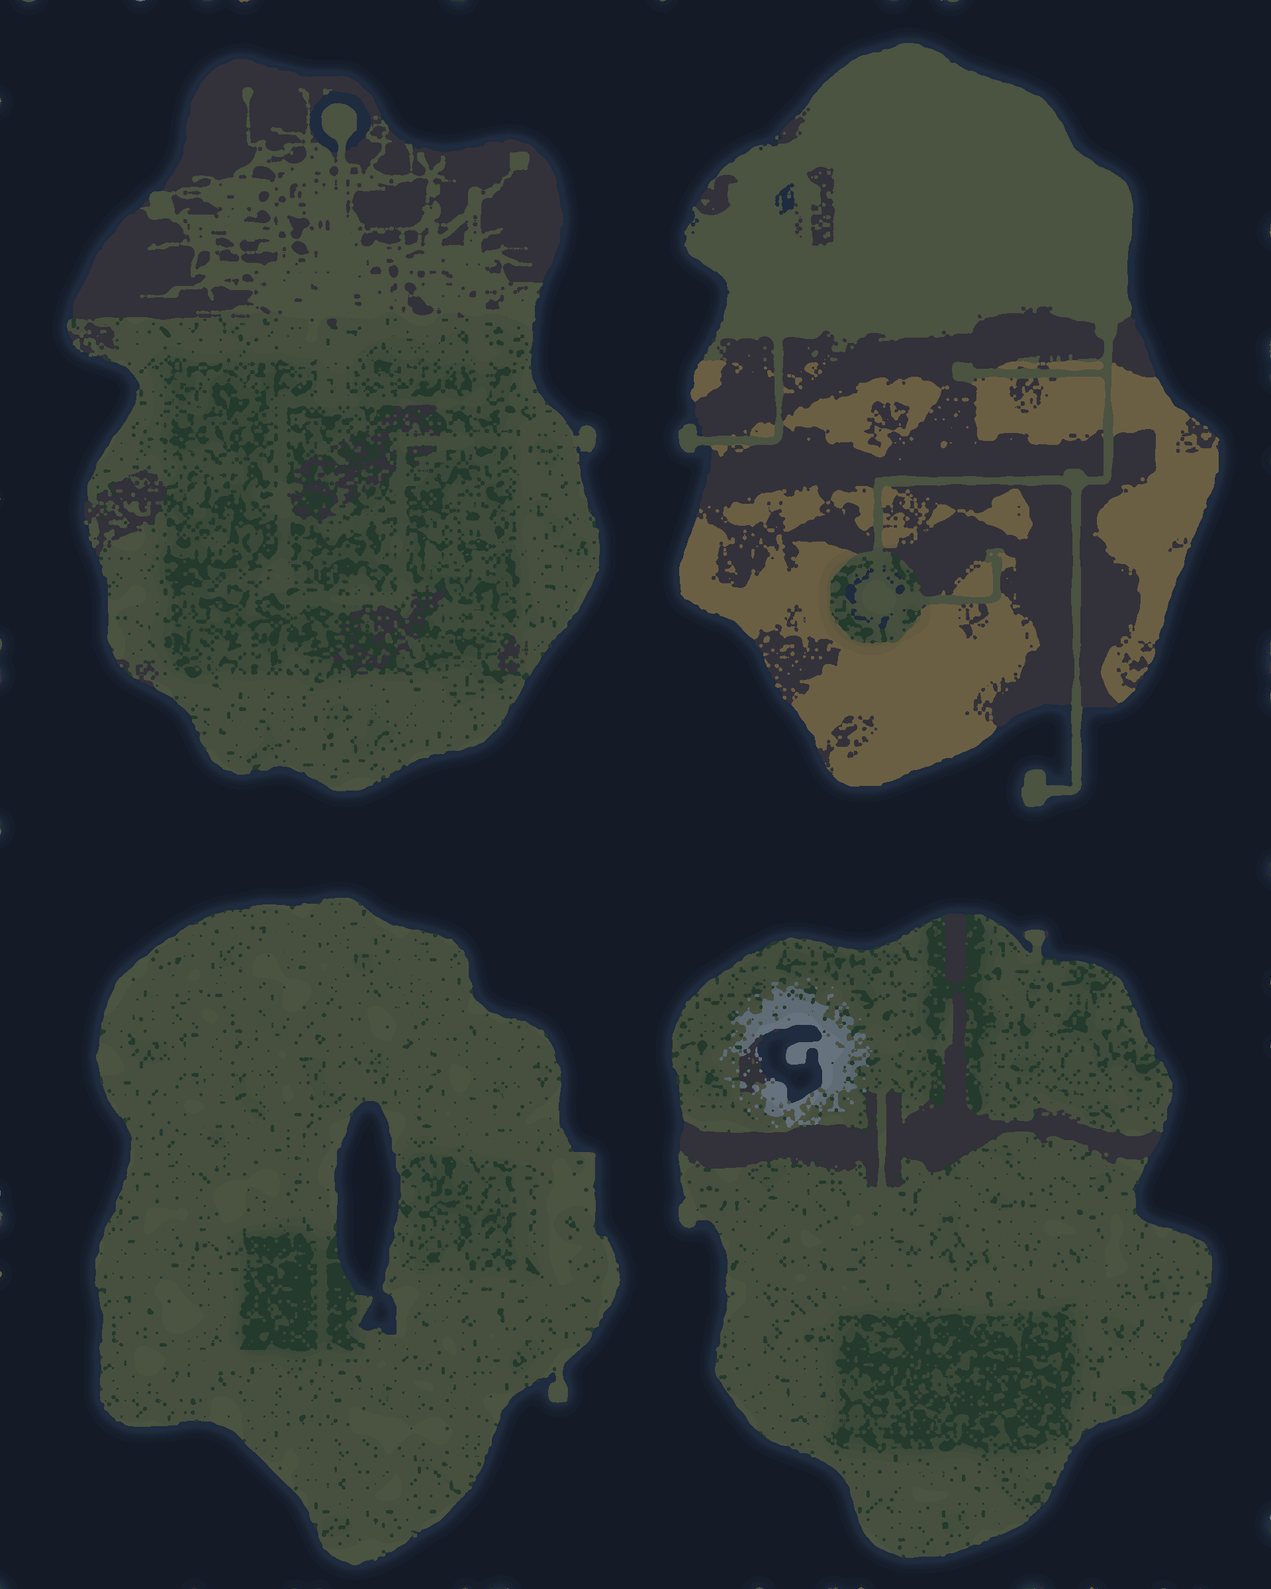
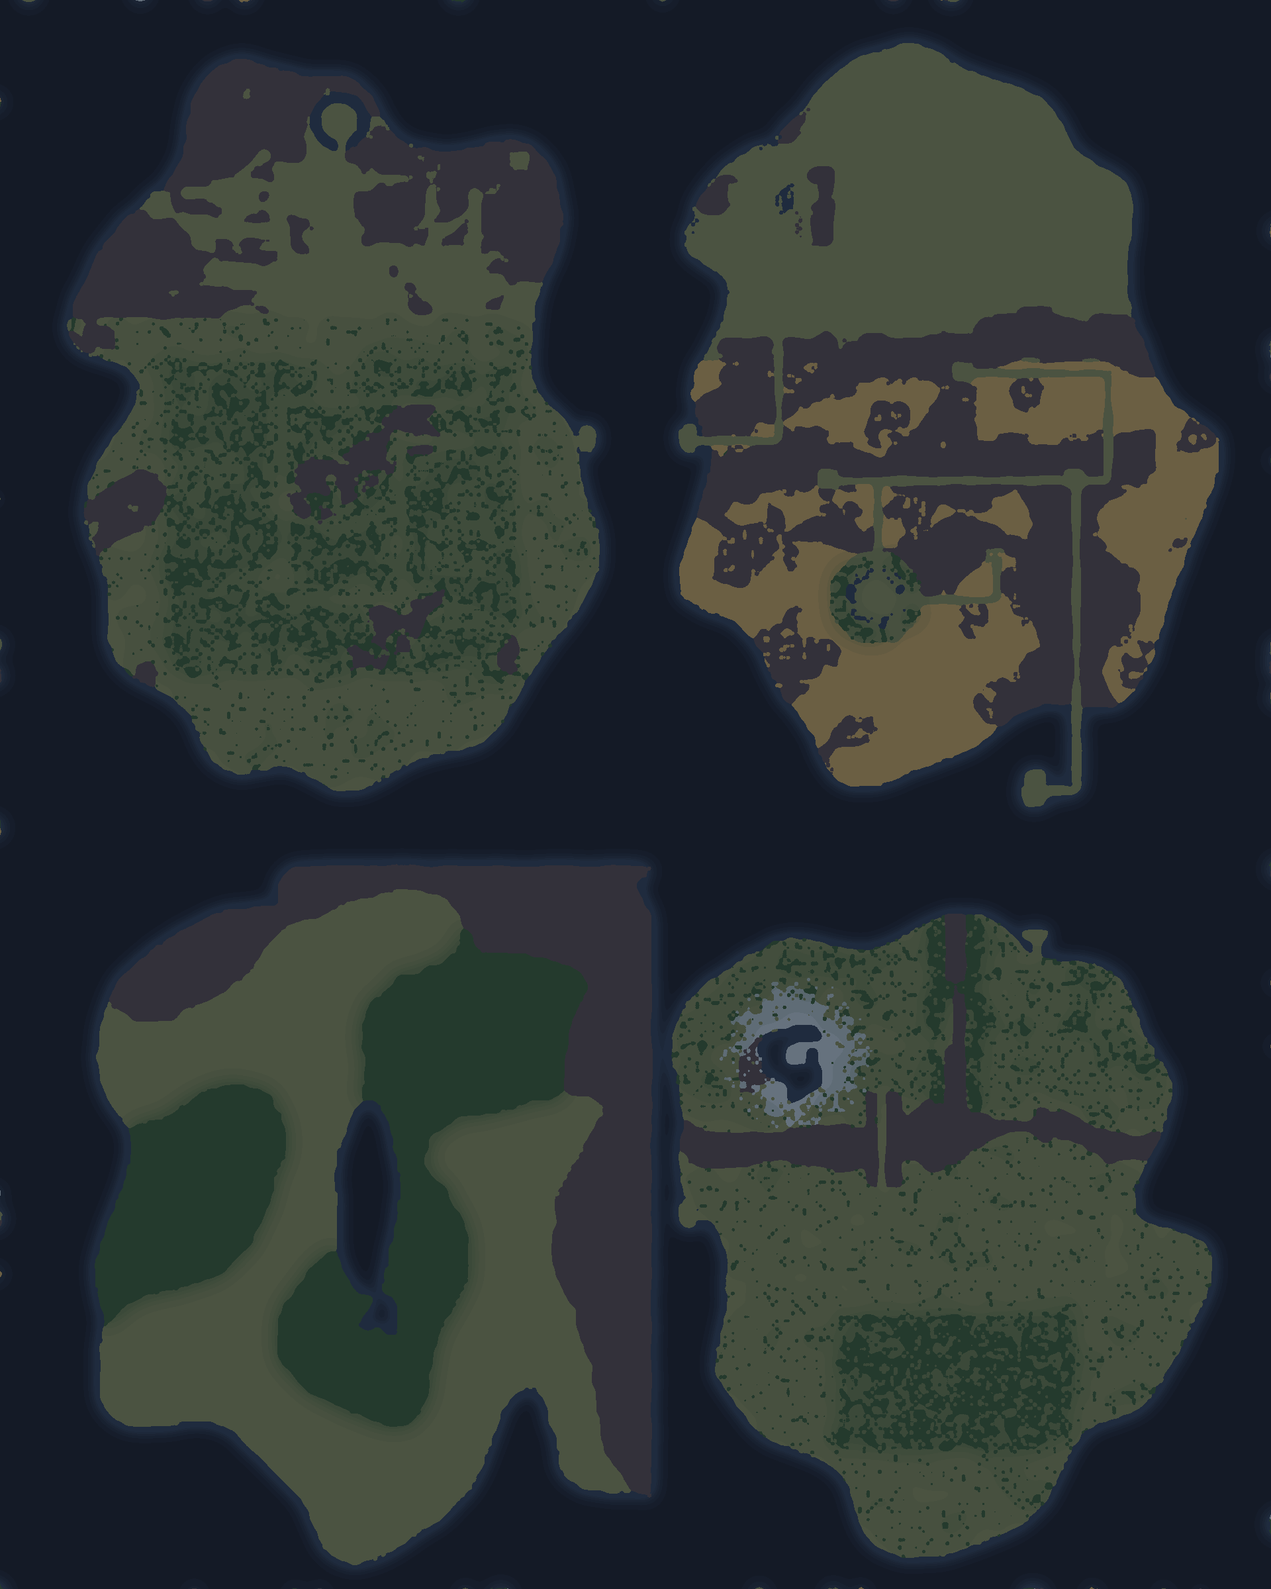
fix: the minimap draws the world the owner painted, and forests stop the hero
Two owner-reported defects, one shared cause: something in the pipeline was
reading a map the game does not play on.

THE MINIMAP. bake_overworld_minimap.py assembled its own grid from a cached
runtime grid plus the Act 1 runtime SNAPSHOT, and neither is the shipped map.
The snapshot is extracted after consolidateMapData and BEFORE act1-world-map.js
writes the owner's painted plate over the Act 1 rect -- the constant is even
named FINAL_MAP_SHA256, which is what makes it so easy to miss; it is final only
up to the plate. That is 11,578 cells inside the rect. The cache adds a further
1,626 outside it, having predated the current consolidator constants. 13,204 of
128,000 cells, and the pins were worse than the terrain: Greenhollow was drawn
at the generator's (60,340) while the game puts it at the owner's (69,255).

So the grid is no longer assembled there. bake_act1_overworld_walk.mjs -- the
collision bake, which hit this exact trap first and whose header says so -- now
answers --emit-map, and its buildFinalMap() is the one definition of the shipped
map in this repo. It asserts the bundle, the consolidated map and the plated map
against pinned hashes before handing any of it over, and the plate SOURCE hash
rides along and is checked, so a repainted plate cannot be quietly drawn. The
minimap and the collider can no longer disagree about which world is real.
--check now compares the bytes on disk rather than re-proving invariants a stale
[…]

diff --git a/public/dq-tiles.js b/public/dq-tiles.js
@@ -303,8 +303,30 @@
   //       reverts all surviving fills; a gained landmark reverts all prunes; re-validated after revert.
   //   Measured results are NOT hardcoded here (they go stale the moment constants tune) — see the change log.
   var MIN_KEEP=6, FILL_MIN=4, DENS_MAX=12, DENS_MAX_GRASS=25, STUCK_TREE_MTN=5; // OPTION 1 biome-aware fill cap (2026-07-08): DENS_MAX=12 = SAND cap (desert stays open); DENS_MAX_GRASS=25 = full 5x5 window => grass effectively UNCAPPED so grassland solidifies. STUCK_TREE_MTN=5 (owner 2026-07-09): a tree(3) with >= 5 of its 8 neighbours = mountain is "stuck" INSIDE a mountain cluster -> becomes mountain (blends into the massif); the tree de-scatter idea was reverted — this is the real fix
-  // walkability (mirrors bundle canMove overworld branch) — for the reachability safety gate ONLY (never mutates)
-  var OW_BLOCK={2:1,4:1,6:1,7:1,8:1,9:1,10:1,11:1,12:1,13:1,14:1,15:1,16:1,19:1,20:1,21:1};
+  // Overworld walkability. TWO consumers, and the second one is easy to miss: the reachability
+  // safety gate below (owReach, which never mutates), AND owmTileBlock() ~line 2350, which copies
+  // this table minus water and mountain to build the PIXEL collider's discrete blocker set. So
+  // this is not a bookkeeping list -- it is what the hero actually walks into.
+  //
+  // TILE 3 (tree) BLOCKS, owner decision 2026-08-07: "the hero also walks straight into forrests,
+  // so something is fundamentally wrong." It was absent here and had been since the file was
+  // written, so forest was walkable at runtime while THREE other authorities said it blocks:
+  // SHIPPED-BLOCKING-RULES.md ("tile 3 is tree, which also blocks"), semanticMap.ts's
+  // BLOCKED_TERRAIN, and act1-world-map.js's own blocked()/wrapCanMove.
+  //
+  // WHY THE PLATE'S OWN FOREST BLOCK NEVER FIRED, which is the actual root cause. act1-world-map.js
+  // wraps scene.canMove and returns false on tile 3 inside the Act 1 rect -- correct, and dead.
+  // a1mInstall forces the engine's update through with isMoving=true and drives the hero from
+  // a1mStep instead, which collides through a1mFree alone and never consults canMove. The wrapper
+  // still matters for relocateIfNeeded and the map-edge fallback; it just never governed a step.
+  // Adding 3 here is what reaches a1mFree, via owmTileBlock -> m.prop.
+  //
+  // Verified before landing: the consolidated and plated maps are byte-identical with and without
+  // this entry (the orphan/landmark gates revert nothing new), so no pinned map hash moves. Act 1
+  // stays ONE walkable region of 9,376 cells with all 8 owner doors reachable -- which is exactly
+  // what test_act1_runtime_override.mjs already asserted, because the plate's blocked() has always
+  // counted tile 3. The runtime was the only component that disagreed.
+  var OW_BLOCK={2:1,3:1,4:1,6:1,7:1,8:1,9:1,10:1,11:1,12:1,13:1,14:1,15:1,16:1,19:1,20:1,21:1};
   var OW_LANDMARKS=[6,7,8,9,10,11,12,15,16,19,20];
   function owWalkable(v){ return !OW_BLOCK[v]; }
   // BFS reachable-walkable set from (sx,sy); returns { seen:Uint8Array, lm:Set of "<val>@x,y" reachable landmarks }
@@ -2328,6 +2350,14 @@
      is, and bumping one is how the engine interacts with it. Those keep the tile test, exactly as
      the dungeon keeps A1M_PROP beside its mask. Removing 2 and 4 from that table is the whole
      point: the field owns them now, at the painted edge instead of the lattice edge.
+
+     TILE 3 (tree) JOINS THAT SET rather than getting a third continuous field. It is the one
+     member that is scenery instead of a landmark, so it is worth saying why a cell blocker is
+     still the honest shape for it: the game's woods are SCATTERED SINGLE TREES at roughly half
+     density, one trunk per cell drawn as a prop on that cell -- not a continuous canopy mass with
+     an iso-line to trace. A per-cell blocker is what that picture is. Inventing a forestField
+     would be a third sampler with no painted edge to agree with, which is the drift this whole
+     section exists to remove.
 
      BRIDGES ARE CARVED BACK OUT, OR THE MAP DISCONNECTS. waterField's membership counts tile 5 as
      water on purpose, so the deck is painted over real water instead of a hole (see its comment).

diff --git a/public/ui-overhaul.js b/public/ui-overhaul.js
@@ -1346,7 +1346,7 @@
   // the same grid it bakes, so the pins cannot drift away from the terrain under them.
   var MM_KINDS = ['town', 'castle', 'dungeon', 'portal', 'hauntedPortal', 'signpost', 'stormNest', 'gateCave', 'specialCave'];
   /* BEGIN GENERATED overworld-minimap-marks */
-  var MM_MARKS = [[1,85,30], [3,130,40], [2,185,48], [2,202,48], [3,40,50], [2,80,60], [2,120,70], [0,195,80], [2,242,81], [5,194,82], [2,278,82], [2,242,93], [5,277,95], [0,70,100], [5,81,102], [5,101,102], [2,148,110], [2,172,110], [0,270,120], [3,50,130], [3,120,140], [8,250,140], [0,100,150], [0,220,150], [2,225,160], [2,260,198], [2,260,234], [0,252,242], [4,238,248], [4,242,248], [2,120,260], [0,222,262], [0,130,290], [5,129,292], [5,139,292], [7,148,295], [6,280,295], [7,172,305], [2,80,310], [0,100,320], [0,200,320], [5,99,322], [5,201,322], [5,223,322], [2,185,335], [0,60,340], [5,61,342], [5,81,342], [2,45,350], [2,140,350]];
+  var MM_MARKS = [[1,85,30], [3,130,40], [2,185,48], [2,202,48], [3,40,50], [2,80,60], [2,120,70], [0,195,80], [2,242,81], [5,194,82], [2,242,93], [0,70,100], [5,81,102], [5,101,102], [2,148,110], [2,172,110], [5,272,118], [2,208,120], [0,270,120], [5,219,122], [3,50,130], [2,298,130], [3,120,140], [8,250,140], [0,100,150], [0,220,150], [2,225,160], [2,260,198], [2,101,231], [2,260,234], [0,252,242], [4,238,248], [4,242,248], [0,69,255], [0,222,262], [2,30,274], [7,149,278], [6,280,295], [7,172,305], [0,200,320], [5,201,322], [5,223,322], [2,185,335], [0,39,344], [0,133,349], [2,96,359], [2,144,372]];
   /* END GENERATED overworld-minimap-marks */
   // Every landmark is a FIXED-SIZE pin on its own dark seat, never a terrain colour. Fixed size
   // is what stops the signpost, special-cave and desert-signpost tiles from being two-pixel

diff --git a/scripts/bake_overworld_minimap.py b/scripts/bake_overworld_minimap.py
@@ -21,6 +21,38 @@ ONE IMAGE FOR THE WHOLE WORLD
     window is then uniform everywhere and `drawFieldMap`'s existing sx/sy clamp already
     guarantees it never leaves the image.
 
+THE MAP THIS BAKES, AND THE STEP THAT WAS MISSED
+    Owner, 2026-08-07: "there is definitely a problem with the minimap. it does not match what
+    i see on the actual overworld."
+
+    It did not, and for TWO independent reasons. This script used to assemble its own grid from
+    `semantic-maps/runtime-overworld-grid.json` plus the Act 1 runtime SNAPSHOT. Both are wrong
+    for this purpose:
+
+      1. The snapshot is extracted by scripts/extract_act1_runtime_snapshot.mjs from the map
+         AFTER consolidateMapData and BEFORE act1-world-map.js writes the OWNER'S PAINTED PLATE
+         over the Act 1 rect (dq-tiles.js ~line 3316). That plate moves 11,578 cells inside the
+         rect -- it is where the owner's coastline, his woods and his eight doors actually are.
+         (The snapshot's constant is even NAMED `FINAL_MAP_SHA256`, which is what makes this so
+         easy to miss: it is final only up to the plate.)
+      2. The cached grid predates the current consolidator constants and disagrees with it by a
+         further 1,626 cells OUTSIDE the rect.
+
+    Total: 13,204 of 128,000 cells drawn from a map the game does not use. Coastlines are the
+    tell, and the pins were worse than the terrain -- Greenhollow was drawn at the generator's
+    (60,340) while the game puts it at the owner's (69,255).
+
+    So the grid is no longer assembled here at all. It is REQUESTED from
+    scripts/bake_act1_overworld_walk.mjs --emit-map, which is the collision bake -- the one that
+    already hit this exact trap and whose header says so outright ("THE PLATE IS THE STEP THAT
+    WAS MISSED FIRST TIME"). That script's buildFinalMap() is now the single definition of the
+    shipped map, and it asserts the bundle, the consolidated map and the plated map against
+    pinned hashes before handing any of it over. The minimap and the collider therefore cannot
+    disagree about which world is real, which is the whole point.
+
+    The plate SOURCE hash rides along in the emitted record and is asserted here, so a plate
+    that moves without a re-bake is caught rather than quietly drawn.
+
 THE INVARIANT, inherited from scripts/smooth_owner_semantic.py
     "The class at every cell CENTRE is preserved exactly. Collision is unchanged. Only the
     appearance of the boundary between cell centres moves."
@@ -53,7 +85,7 @@ DETERMINISM
 
 Usage:
     scripts/bake_overworld_minimap.py             # bake + assert + write
-    scripts/bake_overworld_minimap.py --check     # assert only, write nothing
+    scripts/bake_overworld_minimap.py --check     # assert, and refuse a stale PNG on disk
 """
 from __future__ import annotations
 
@@ -61,8 +93,9 @@ import argparse
 import hashlib
 import json
 import os
-import re
+import subprocess
 import sys
+import tempfile
 
 import numpy as np
 from PIL import Image
@@ -71,9 +104,8 @@ sys.path.insert(0, os.path.dirname(os.path.abspath(__file__)))
 import smooth_owner_semantic as SM  # noqa: E402  -- the blur, the constants and the method
 
 ROOT = os.path.dirname(os.path.dirname(os.path.abspath(__file__)))
-GRID_CACHE = os.path.join(
-    ROOT, "design/continent-terrain-class-method/semantic-maps/runtime-overworld-grid.json")
-SNAPSHOT = os.path.join(ROOT, "src/map-engine/generated/act1RuntimeSnapshot.ts")
+SHIPPED_MAP_BAKE = os.path.join(ROOT, "scripts/bake_act1_overworld_walk.mjs")
+PLATE_SOURCE = os.path.join(ROOT, "public/act1-world-map.js")
 OUT_PNG = os.path.join(ROOT, "public/ui-map/overworld-relief.png")
 OUT_MARKS = os.path.join(ROOT, "design/ui-overhaul/overworld-minimap-marks.json")
 RENDERER = os.path.join(ROOT, "public/ui-overhaul.js")
@@ -115,6 +147,14 @@ CLASS_OF_TILE = {
     6: "ground", 7: "ground", 8: "ground", 9: "ground", 10: "ground", 11: "ground",
     12: "ground", 13: "ground", 14: "rock", 15: "ground", 16: "ice", 17: "ice",
     18: "desert", 19: "ground", 20: "desert",
+    # 21 is undocumented in MapGenerator.ts's header and appears nowhere in the TS source -- it
+    # comes out of the frozen bundle's generator as a 3x2 structure at (245-247, 93-94), a gate
+    # straddling the road through a mountain pass, with a cave mouth beside it. The old cached
+    # grid predated it entirely and carried plain road there, which is why this table never had
+    # to name it before. It BLOCKS in OW_BLOCK and in the bundle's own canMove -- exactly as
+    # town, castle and cave mouth do -- so it takes the same treatment they do: drawn as the
+    # ground it is approached from, per the convention stated above. Six cells, outside Act 1.
+    21: "ground",
 }
 BLOCKS = {"water", "forest", "rock"}          # walkable: ground, desert, ice
 BLOCKING_TILES = {2, 3, 4, 14}                # the authority, SHIPPED-BLOCKING-RULES.md
@@ -166,34 +206,46 @@ def luma(rgb) -> float:
 # ---------------------------------------------------------------------------------------------
 # 1. The grid the game actually collides with
 # ---------------------------------------------------------------------------------------------
-def load_grid() -> np.ndarray:
-    """generateOverworldMap(320,400), then the Act 1 runtime overrides on top.
+def load_grid() -> tuple[np.ndarray, dict]:
+    """THE map the runtime holds: generator -> consolidateMapData -> the owner's painted plate.
 
-    The cache is the same one build_semantic_map_from_runtime.py writes, and it predates the
-    Act 1 blocker overrides -- so the snapshot is applied over it and the bake is the FINAL
-    shipped map, not the pre-override one.
+    Not assembled here. Requested from the collision bake, which owns that three-step chain and
+    asserts every step against a pinned hash (see the header). Re-deriving it in this file would
+    be a second authority that can drift from the collider, which is the bug this fixes.
     """
-    grid = np.asarray(json.load(open(GRID_CACHE)), dtype=np.int16)
+    with tempfile.TemporaryDirectory() as tmp:
+        out = os.path.join(tmp, "shipped-map.json")
+        proc = subprocess.run(["node", SHIPPED_MAP_BAKE, "--emit-map", out],
+                              capture_output=True, text=True)
+        if proc.returncode != 0:
+            raise SystemExit("the collision bake refused to emit the shipped map -- the world "
+                             f"this minimap would draw is unverified:\n{proc.stderr.strip()}")
+        record = json.load(open(out))
+
+    if record.get("schema") != 1:
+        raise SystemExit(f"shipped-map record schema {record.get('schema')}, expected 1")
+    grid = np.asarray(record["rows"], dtype=np.int16)
     if grid.shape != (WORLD_H, WORLD_W):
-        raise SystemExit(f"runtime grid is {grid.shape}, expected {(WORLD_H, WORLD_W)}")
+        raise SystemExit(f"shipped map is {grid.shape}, expected {(WORLD_H, WORLD_W)}")
 
-    source = open(SNAPSHOT, encoding="utf-8").read()
-    bounds = [int(v) for v in re.search(
-        r"ACT1_RUNTIME_SNAPSHOT_BOUNDS = \[([0-9, ]+)\]", source).group(1).split(",")]
-    x0, y0, x1, y1 = bounds
-    rows = re.findall(r"'([0-9a-z]+)',?\n", source[source.index("ACT1_RUNTIME_SNAPSHOT_ROWS"):])
-    if len(rows) != y1 - y0 + 1 or len(rows[0]) != x1 - x0 + 1:
-        raise SystemExit(f"snapshot is {len(rows)}x{len(rows[0])}, bounds want "
-                         f"{y1 - y0 + 1}x{x1 - x0 + 1}")
+    # The emitter hashes the map it hands over; re-hash it here rather than trusting the label,
+    # so a truncated or edited record cannot pass as the shipped world.
+    got = hashlib.sha256(grid.astype(np.uint8).tobytes()).hexdigest()
+    if got != record["platedSha256"]:
+        raise SystemExit(f"emitted map hashes {got}, record claims {record['platedSha256']}")
 
-    # The bridge is a pure translation, act1cell = (worldX - 16, worldY - 218): no scale, no flip.
-    snap = np.array([[int(ch, 36) for ch in row] for row in rows], dtype=np.int16)
-    before = grid[y0:y1 + 1, x0:x1 + 1].copy()
-    grid[y0:y1 + 1, x0:x1 + 1] = snap
-    changed = int((before != snap).sum())
-    print(f"grid: {WORLD_W}x{WORLD_H}; Act 1 snapshot applied over "
-          f"[{x0},{y0}]-[{x1},{y1}], {changed} cell(s) differed from the cache")
-    return grid
+    # THE PLATE IS THE STEP THAT WAS MISSED FIRST TIME. Pin its source here too, so a plate that
+    # is repainted without re-running this bake is caught instead of quietly drawn.
+    plate_sha = hashlib.sha256(open(PLATE_SOURCE, "rb").read()).hexdigest()
+    if plate_sha != record["plateSourceSha256"]:
+        raise SystemExit(f"{os.path.relpath(PLATE_SOURCE, ROOT)} hashes {plate_sha[:16]} but the "
+                         f"emitted map was built from {record['plateSourceSha256'][:16]}")
+
+    print(f"grid: {WORLD_W}x{WORLD_H}, THE SHIPPED MAP")
+    print(f"  consolidated {record['consolidatedSha256'][:16]} -> plated {record['platedSha256'][:16]}")
+    print(f"  owner plate source {plate_sha[:16]}, plate rect {record['plateRectSha256'][:16]}")
+    return grid, {"plated": record["platedSha256"], "plateSource": plate_sha,
+                  "consolidated": record["consolidatedSha256"], "bundle": record["bundleSha256"]}
 
 
 # ---------------------------------------------------------------------------------------------
@@ -395,7 +447,19 @@ def main() -> None:
     args = ap.parse_args()
 
     S = BAKE_PX
-    grid = load_grid()
+    grid, prov = load_grid()
+
+    # Name every tile the shipped map actually contains, or refuse. The generator emitted a tile
+    # this table had never seen (21) and the bake died on a bare KeyError three steps later; an
+    # unnamed tile is a terrain class nobody chose, and guessing one is how a minimap starts
+    # lying. Fail here, with the census, so the decision is made deliberately.
+    unknown = sorted({int(t) for t in np.unique(grid)} - set(CLASS_OF_TILE))
+    if unknown:
+        counts = ", ".join(f"tile {t} x{int((grid == t).sum())}" for t in unknown)
+        raise SystemExit(f"REFUSING: the shipped map contains tile id(s) CLASS_OF_TILE does not "
+                         f"name: {counts}. Classify them (and check OW_BLOCK in public/dq-tiles.js "
+                         f"for whether they block) before baking.")
+
     truth_idx = np.vectorize(lambda t: CLASSES.index(CLASS_OF_TILE[int(t)]))(grid).astype(np.int64)
 
     fields, lab, iters = build_fields(truth_idx, S)
@@ -414,8 +478,34 @@ def main() -> None:
     payload = Image.fromarray(idx, mode="P")
     flat = [v for c in palette for v in c]
     payload.putpalette(flat + [0] * (768 - len(flat)))
+
     if args.check:
-        print("--check: nothing written")
+        # A STALE ARTEFACT IS THE FAILURE THIS WHOLE CHANGE IS ABOUT, so --check compares the
+        # actual bytes on disk against a fresh bake rather than merely re-proving, in memory,
+        # invariants that a stale PNG would also satisfy. The bake is deterministic (see
+        # DETERMINISM above), so any difference is a real staleness.
+        with tempfile.TemporaryDirectory() as tmp:
+            probe = os.path.join(tmp, "probe.png")
+            payload.save(probe, optimize=True, bits=8)
+            fresh = open(probe, "rb").read()
+        if not os.path.exists(OUT_PNG):
+            raise SystemExit(f"REFUSING: {os.path.relpath(OUT_PNG, ROOT)} does not exist")
+        have = open(OUT_PNG, "rb").read()
+        if have != fresh:
+            raise SystemExit(
+                f"REFUSING: {os.path.relpath(OUT_PNG, ROOT)} is stale -- on disk "
+                f"{hashlib.sha256(have).hexdigest()[:16]}, freshly baked "
+                f"{hashlib.sha256(fresh).hexdigest()[:16]}. Rerun scripts/bake_overworld_minimap.py")
+        want_marks = json.dumps(marks, indent=1)
+        if not os.path.exists(OUT_MARKS) or open(OUT_MARKS, encoding="utf-8").read() != want_marks:
+            raise SystemExit(f"REFUSING: {os.path.relpath(OUT_MARKS, ROOT)} is stale -- "
+                             "rerun scripts/bake_overworld_minimap.py")
+        rows = ", ".join(f"[{MM_KINDS.index(m['t'])},{m['x']},{m['y']}]" for m in marks)
+        if ("  var MM_MARKS = [" + rows + "];\n") not in open(RENDERER, encoding="utf-8").read():
+            raise SystemExit(f"REFUSING: MM_MARKS in {os.path.relpath(RENDERER, ROOT)} does not "
+                             "match the terrain under it -- rerun scripts/bake_overworld_minimap.py")
+        print(f"MINIMAP RELIEF CHECK PASS: relief, marks and MM_MARKS all match the shipped map "
+              f"(plated {prov['plated'][:16]}, plate source {prov['plateSource'][:16]})")
         return
 
     os.makedirs(os.path.dirname(OUT_PNG), exist_ok=True)

diff --git a/scripts/runtime_baseline.py b/scripts/runtime_baseline.py
@@ -88,7 +88,7 @@ ACT1_OVERLAY_FILES = {
     # save format round-trips to itself (measured: 742 of 754 reportable cells reload unchanged, the
     # other 12 settle one cell north once; largest rescue nudge 28 px against a 96 px bound).
     "dq-tiles.js": (
[2 lines of base64/hex data omitted]
     # 2026-08-07: THE OVERWORLD'S COLLISION SHAPE, baked -- the overworld's answer to the dungeons'
     # `<floor>-walk.png` above, and as much a shipped authority as they are. Deriving it at runtime
     # was correct and unaffordable: owmBuild() evaluated waterField/mountainField per pixel over a
@@ -143,7 +143,7 @@ ACT1_OVERLAY_FILES = {
     # the control-orientation setting, into the frame. First override of this file since the
     # v1.17.1 baseline was frozen, which is why it had no entry before.
     "ui-overhaul.js": (
[2 lines of base64/hex data omitted]
     # 2026-08-06, owner pick: "Charcoal & Gold Leaf" (direction 4 of
     # design/ui-overhaul/chic-style-board.html). The same gold as before -- the pixel art, the
     # dungeon plates and the town screens were all approved against it -- spent differently:
@@ -220,7 +220,7 @@ UI_ASSET_FILES = {
     # refuses to write unless all 128,000 cell centres carry the grid's own class, so this file
     # cannot ship disagreeing with collision.
     "ui-map/overworld-relief.png": (
[2 lines of base64/hex data omitted]
 }
 # The four tiling terrain materials the renderer above samples. New runtime paths as of
 # 2026-08-01; pinned by hash rather than merely tolerated, because they are shipped art and a
